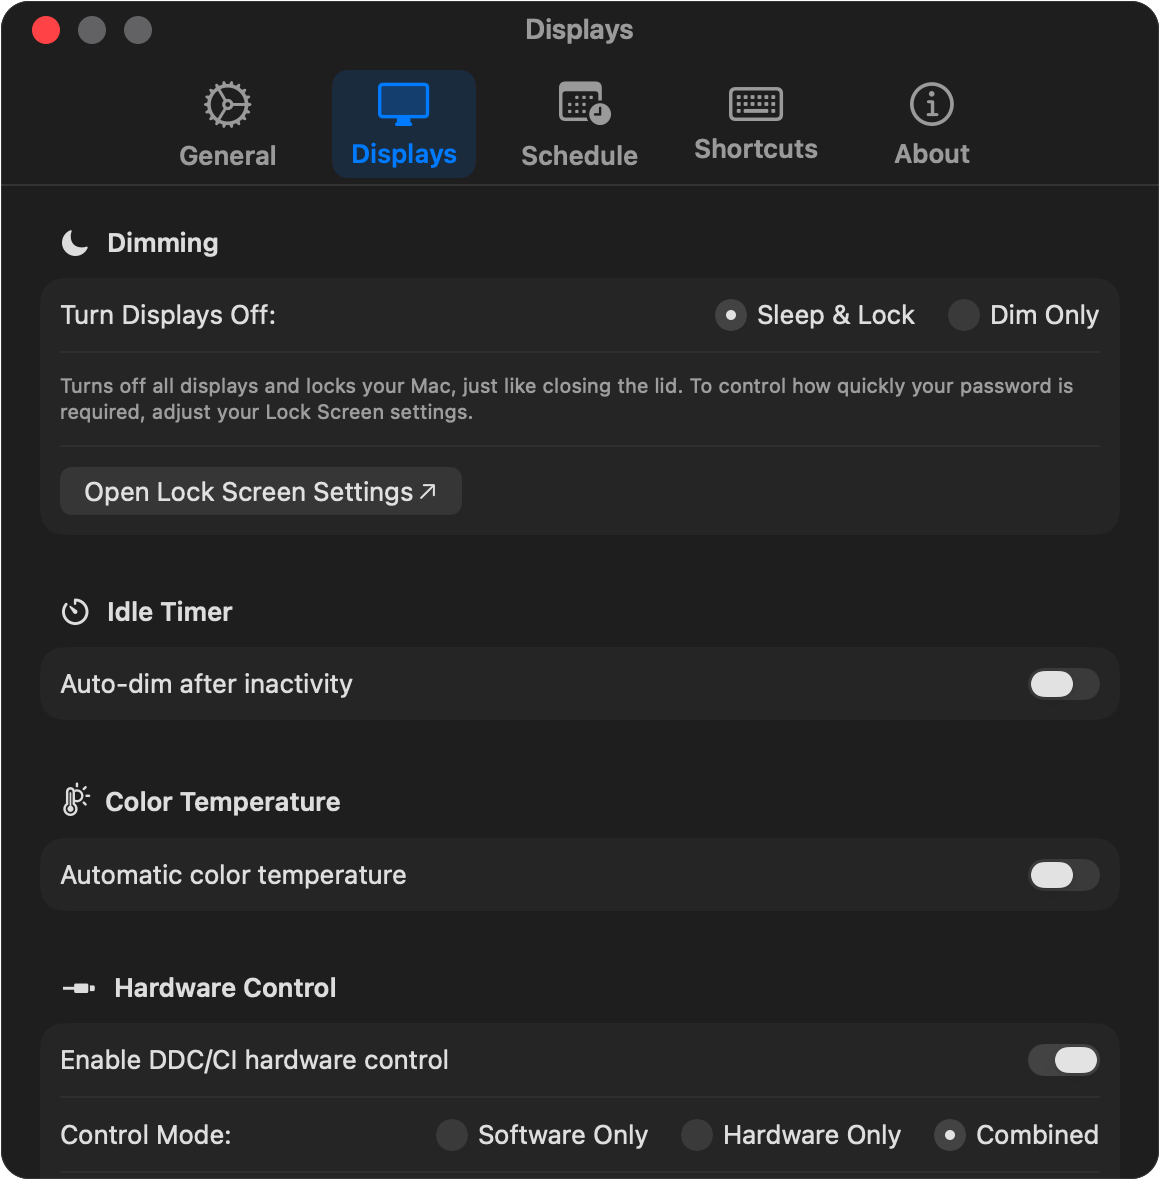
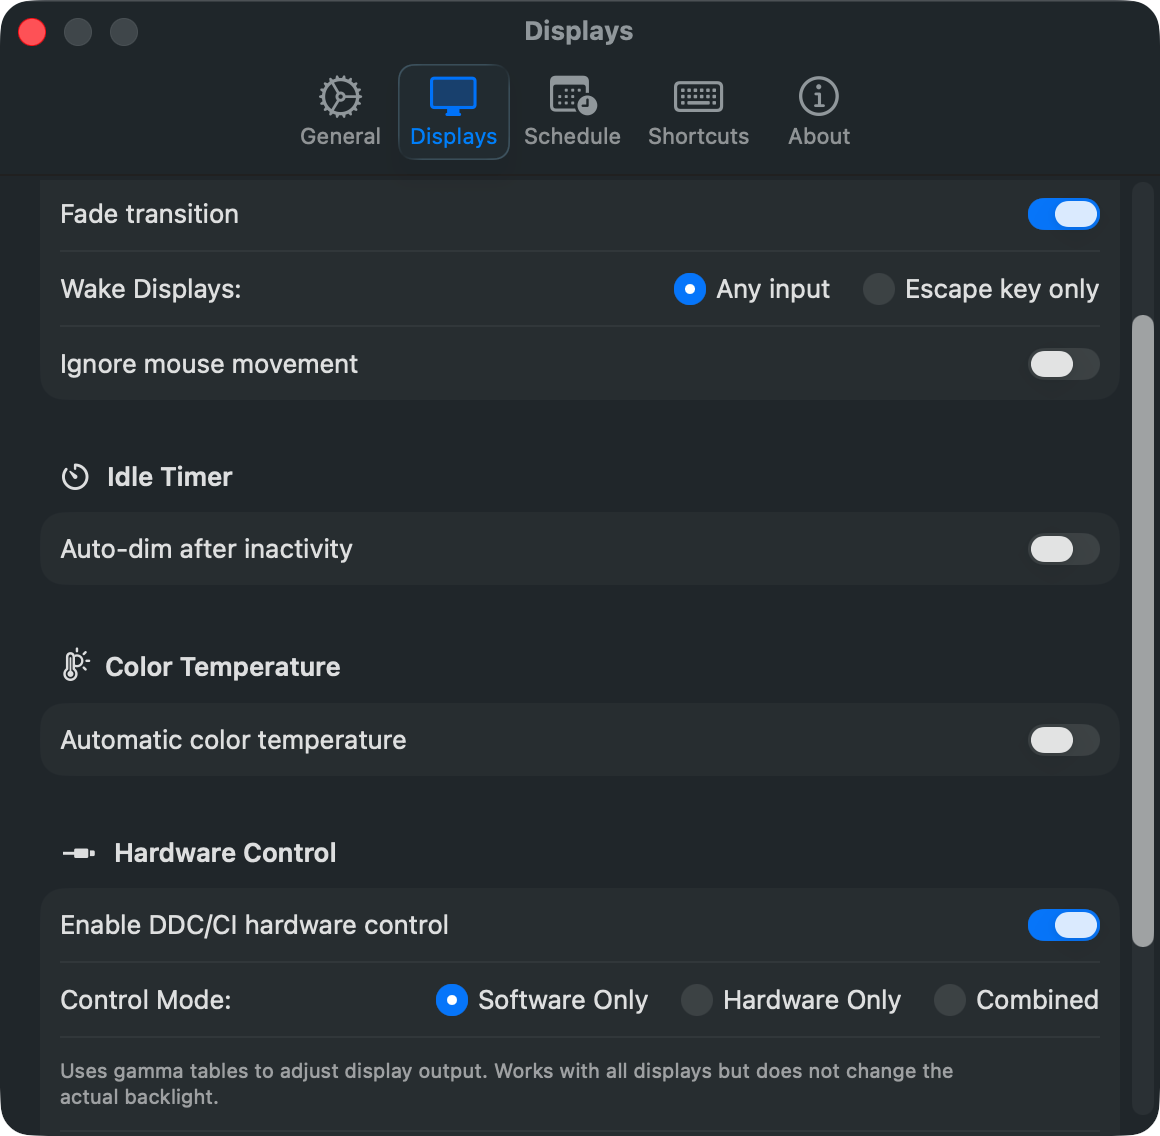
Update screenshots for 1.1.0
New menu bar panel and Displays settings shots reflecting the current
UI, plus a shot of the new right-click quick actions menu.

diff --git a/README.md b/README.md
@@ -88,6 +88,8 @@ the sandboxed build when App Store distribution or sandboxing matters more.
 
 ![Dimmerly display settings window](images/image2.png)
 
+![Dimmerly right-click quick actions menu](images/image4.png)
+
 ## Usage
 
 ### Menu Bar Controls